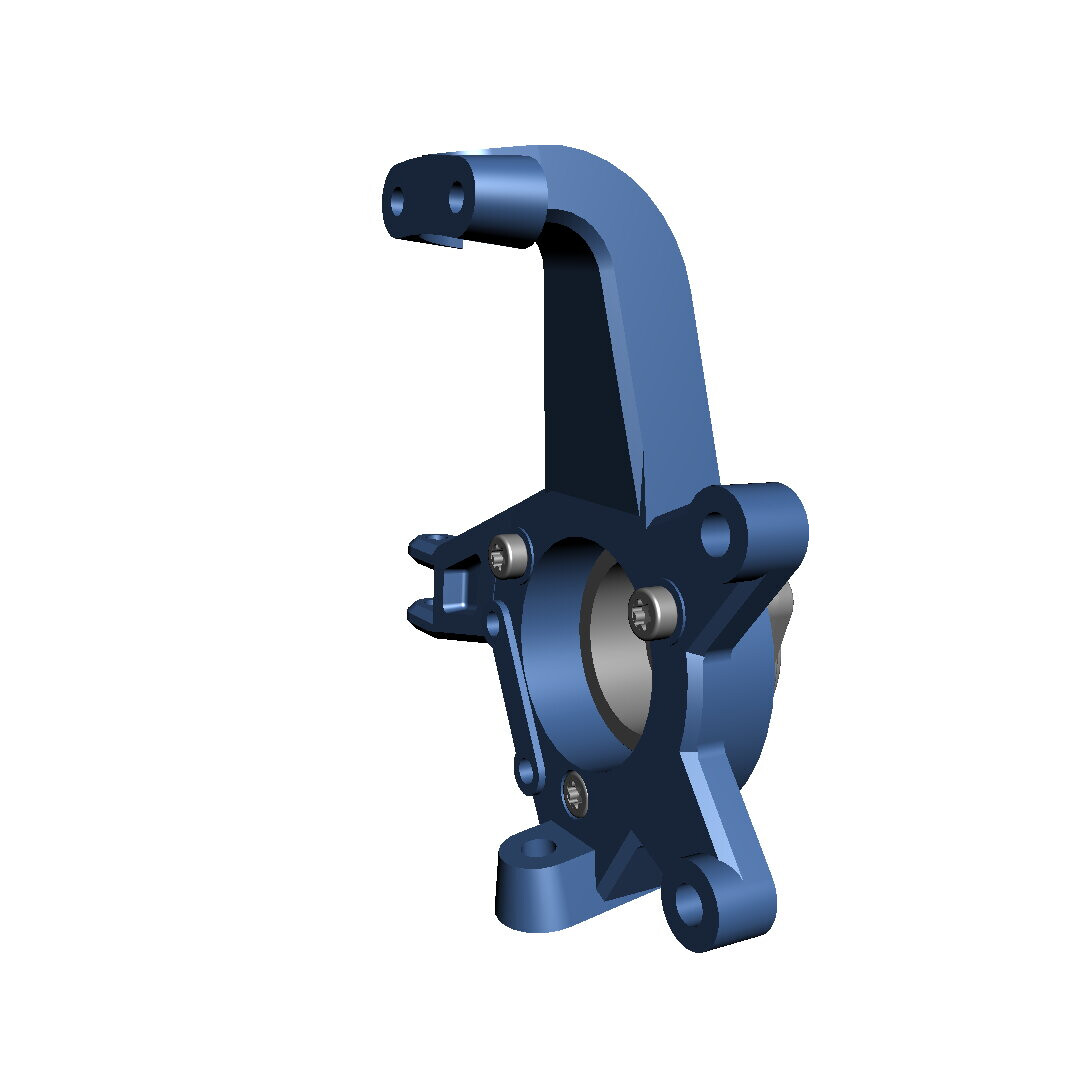
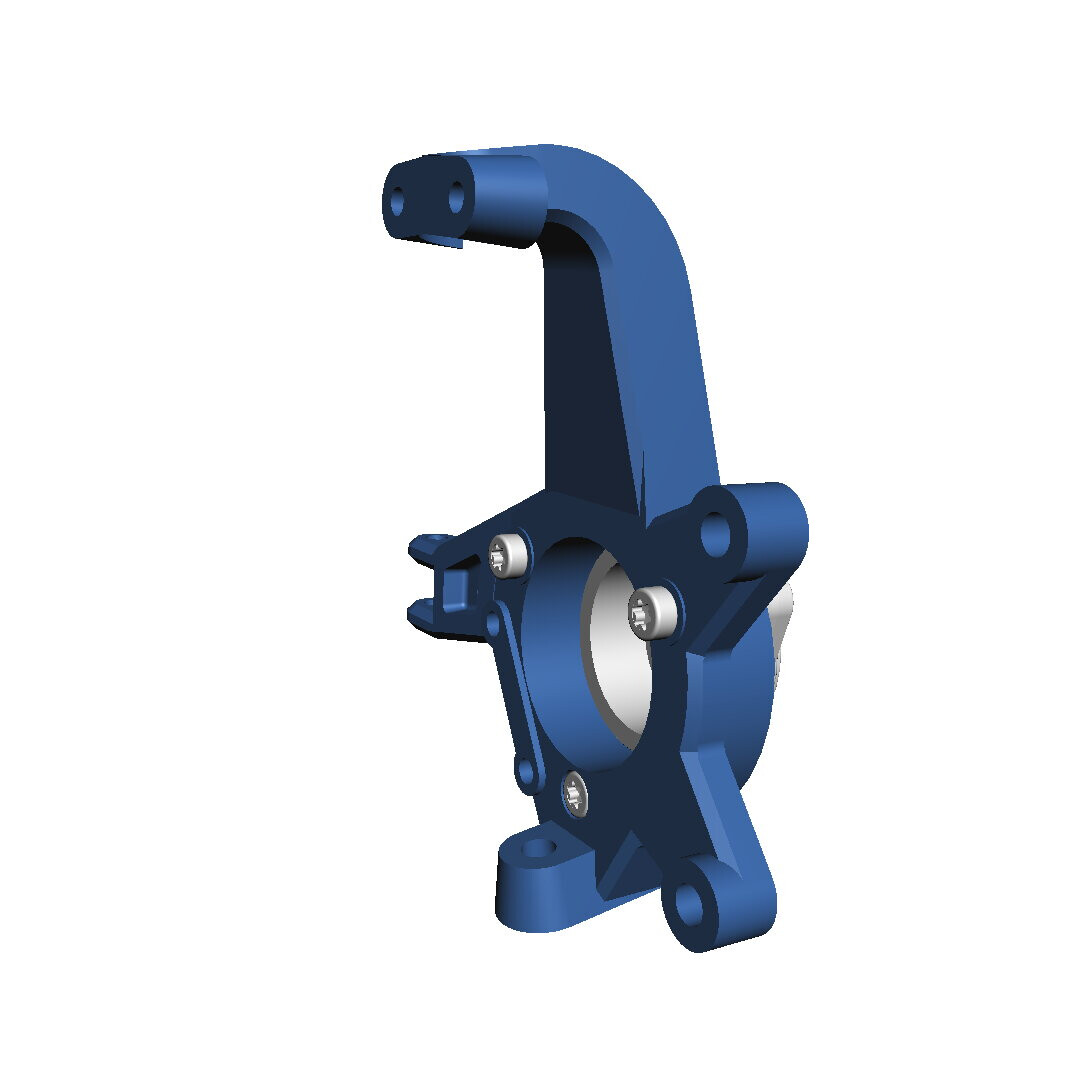
Use new model with better colors

diff --git a/src/lib/work-instructions.tsx b/src/lib/work-instructions.tsx
@@ -97,16 +97,27 @@ const step4Cam: FrameCamera.FrameCamera = {
   },
 };
 
+const ControlArmRlls = "308600";
+const FenderFrame = "312220";
+const FenderRearStreet = "312240";
+const HoweBallJoints = ["312200", "312210"];
+const M10x35Bolts = ["312100", "312110", "312120", "312130", "312140"];
+const M12HeimMhmr12T = "300820";
+const SSSpindle = "312230";
+const ToeLink = "308640";
+const WheelAxle = "308390";
+const WheelMechHousing = "307750";
+const Z06InnerHub = "312080";
+
 const step2SceneItemsVisible = [
-  "100820",
-  "109570",
-  "109690",
-  "109700",
-  "109720",
-  "110850", // Wheel mech housing
-  "111490", // Wheel axle
-  "111700", // Control Arm RLLS
-  "111740",
+  M12HeimMhmr12T,
+  Z06InnerHub,
+  ...HoweBallJoints,
+  SSSpindle,
+  WheelMechHousing,
+  WheelAxle,
+  ControlArmRlls,
+  ToeLink,
 ];
 
 export const InstructionSteps: Record<string, InstructionStep> = {
@@ -132,21 +143,25 @@ export const InstructionSteps: Record<string, InstructionStep> = {
     instructions: (onShow: (ids: string[]) => void) => [
       <>
         Install three (3) M12x1.25 mm torx head bolts in the{" "}
-        <Link onClick={() => onShow(["109570"])}>Z06 inner hub</Link> with
+        <Link onClick={() => onShow([Z06InnerHub])}>Z06 inner hub</Link> with
         Loctite® Threadlocker 271™.
       </>,
       <>Using a T55 socket, torque the bolts to 75 ft/lbs.</>,
     ],
     parts: [
-      { name: "Z06 inner hub", quantity: 1, sceneItemSuppliedIds: ["109570"] },
+      {
+        name: "Z06 inner hub",
+        quantity: 1,
+        sceneItemSuppliedIds: [Z06InnerHub],
+      },
       {
         name: "SS Spindle",
         quantity: 1,
-        sceneItemSuppliedIds: ["109720"],
+        sceneItemSuppliedIds: [SSSpindle],
       },
     ],
-    sceneItemsVisible: ["109570", "109720"],
-    sceneViewStateId: "557f926a-4f46-4de6-a027-08a2bf789162",
+    sceneItemsVisible: [Z06InnerHub, SSSpindle],
+    sceneViewStateId: "f4ec5c6e-ed3a-4806-8d67-240f93378cda",
     step: 1,
     title: "Install the inner hub on the spindle",
   },
@@ -167,34 +182,37 @@ export const InstructionSteps: Record<string, InstructionStep> = {
     instructions: (onShow: (ids: string[]) => void) => [
       <>
         Clean the ID of the{" "}
-        <Link onClick={() => onShow(["109720"])}>spindle</Link> and the OD of
-        the{" "}
-        <Link onClick={() => onShow(["109690", "109700"])}>ball joints</Link>{" "}
-        with brake cleaner and degreaser.
+        <Link onClick={() => onShow([SSSpindle])}>spindle</Link> and the OD of
+        the <Link onClick={() => onShow(HoweBallJoints)}>ball joints</Link> with
+        brake cleaner and degreaser.
       </>,
       <>Wipe clean with a lint free shop towel.</>,
       <>
         Install the washers and castle nuts on the{" "}
-        <Link onClick={() => onShow(["109690", "109700"])}>ball joints</Link>.
+        <Link onClick={() => onShow(HoweBallJoints)}>ball joints</Link>.
       </>,
       <>Torque the castle nuts to 30 ft/lbs and turn it an additional 140°.</>,
       <>
         Ensure the castle nut notch lines up with the hole in the{" "}
-        <Link onClick={() => onShow(["109690", "109700"])}>ball joints</Link>{" "}
-        and install a cotter pin.
+        <Link onClick={() => onShow(HoweBallJoints)}>ball joints</Link> and
+        install a cotter pin.
       </>,
     ],
     parts: [
-      { name: "Z06 inner hub", quantity: 1, sceneItemSuppliedIds: ["109570"] },
+      {
+        name: "Z06 inner hub",
+        quantity: 1,
+        sceneItemSuppliedIds: [Z06InnerHub],
+      },
       {
         name: "Howe ball joint",
         quantity: 2,
-        sceneItemSuppliedIds: ["109690", "109700"],
+        sceneItemSuppliedIds: HoweBallJoints,
       },
-      { name: "SS Spindle", quantity: 1, sceneItemSuppliedIds: ["109720"] },
+      { name: "SS Spindle", quantity: 1, sceneItemSuppliedIds: [SSSpindle] },
     ],
     sceneItemsVisible: step2SceneItemsVisible,
-    sceneViewStateId: "79dca8ec-c839-4764-bfb9-1de1d6629e70",
+    sceneViewStateId: "cc79089a-f354-4074-9296-91bbad0aa696",
     step: 2,
     title: "Install the spindle on the ball joints",
   },
@@ -212,12 +230,12 @@ export const InstructionSteps: Record<string, InstructionStep> = {
       {
         name: "M12 heim MHMR12T",
         quantity: 1,
-        sceneItemSuppliedIds: ["100820"],
+        sceneItemSuppliedIds: [M12HeimMhmr12T],
       },
-      { name: "Toe Link", quantity: 1, sceneItemSuppliedIds: ["111740"] },
+      { name: "Toe Link", quantity: 1, sceneItemSuppliedIds: [ToeLink] },
     ],
     sceneItemsVisible: step2SceneItemsVisible,
-    sceneViewStateId: "09196930-ca37-4ddf-8adf-f695060bb8d4",
+    sceneViewStateId: "62b1fde2-a78b-49aa-82cb-e833c4af9347",
     step: 3,
     title: "Install the stabilizer arm",
   },
@@ -237,14 +255,7 @@ export const InstructionSteps: Record<string, InstructionStep> = {
     camera: step4Cam,
     instructions: (onShow: (ids: string[]) => void) => [
       <>
-        Torque the{" "}
-        <Link
-          onClick={() =>
-            onShow(["109590", "109600", "109610", "109620", "109630"])
-          }
-        >
-          M10x35 bolts
-        </Link>{" "}
+        Torque the <Link onClick={() => onShow(M10x35Bolts)}>M10x35 bolts</Link>{" "}
         to 45 ft/lbs.
       </>,
     ],
@@ -252,45 +263,27 @@ export const InstructionSteps: Record<string, InstructionStep> = {
       {
         name: "M10x35",
         quantity: 5,
-        sceneItemSuppliedIds: [
-          "109590",
-          "109600",
-          "109610",
-          "109620",
-          "109630",
-        ],
+        sceneItemSuppliedIds: M10x35Bolts,
       },
-      { name: "Fender frame", quantity: 1, sceneItemSuppliedIds: ["109710"] },
-      { name: "Fender rear", quantity: 1, sceneItemSuppliedIds: ["109730"] },
+      {
+        name: "Fender frame",
+        quantity: 1,
+        sceneItemSuppliedIds: [FenderFrame],
+      },
+      {
+        name: "Fender rear",
+        quantity: 1,
+        sceneItemSuppliedIds: [FenderRearStreet],
+      },
     ],
     sceneItemsVisible: [
       ...step2SceneItemsVisible,
-      "109590",
-      "109600",
-      "109610",
-      "109620",
-      "109630",
-      "109710",
-      "109730",
+      ...M10x35Bolts,
+      FenderFrame,
+      FenderRearStreet,
     ],
-    sceneViewStateId: "3bebb15b-1245-4dd6-8e3c-e25de4c9e6ab",
+    sceneViewStateId: "ebfd9db7-0e40-4efb-b71e-025311bd3fc1",
     step: 4,
     title: "Install the fender frame",
   },
 };
-
-// Base scene items:
-// 07680144-ffc7-4c67-aa09-d0a9fecf0a3a, tire
-// 2462b043-be9b-48c7-b359-b7b3e5a55370, rim
-
-/*
-Color mods
-
-f4136f80-a6e8-4339-a98a-b18d04c3abe1/109720, { "b": 191, "g": 127, "r": 84 }
-9efb3d22-4377-4dfb-8359-6179829b47fe/109570, { "b": 174, "g": 174, "r": 174 }
-
-c1db36ca-66f0-4918-9a93-c2bf209478be/109690 and a1e22d5a-ed29-4c63-8ed0-449b2cf6a173/109700, { "b": 80, "g": 160, "r": 250 }
-9b497fe1-8032-4513-916c-ed20fad4a0db,111490 and f8751889-235f-455e-aff3-5c50a2095490,100820, { "b": 255, "g": 255, "r": 255 }
-466997ea-8f24-4f4e-86cc-8b52a508dc7b/111700, and 2f9ba315-cf2f-466b-b6b1-f89392540a57/111740 { "b": 100, "g": 100, "r": 100 }
-62a0d676-dc72-4bcc-b57b-23608d7b5215,109590, 73b24246-1648-4f89-af89-5bd39fcf1d1b,109620, f8cab8bd-7755-47c7-b39d-70f82ba8af55,109630, e3c28c65-a92d-4fee-b0de-49f1abe893ed,109610, 441ea531-36c6-4015-bf2e-d1dab388a58c,109600 { "b": 215, "g": 215, "r": 215 }
-*/

diff --git a/src/pages/index.tsx b/src/pages/index.tsx
@@ -52,14 +52,13 @@ export default function Home({
 
   const stepIds = Object.keys(InstructionSteps);
 
-  async function onSceneReady() {
+  async function handleSceneReady() {
     const v = viewer.ref.current;
     if (v == null) return;
 
     const scene = await v.scene();
     if (scene == null) return;
 
-    console.debug("sceneViewId", scene.sceneViewId);
     setReady(true);
     setSceneViewId(scene.sceneViewId);
     if (authoring) await initializeScene({ viewer: v });
@@ -125,15 +124,15 @@ export default function Home({
                 setDialogOpen(true);
               }
             }}
-            onSceneReady={onSceneReady}
+            onSceneReady={handleSceneReady}
             onSelect={async (detail, hit) => {
-              console.debug(
-                `${hit?.itemId?.hex},${hit?.itemSuppliedId?.value},${
-                  hit?.metadata?.partName
-                },${JSON.stringify(hit?.hitNormal)} ${JSON.stringify(
-                  hit?.hitPoint
-                )}`
-              );
+              console.debug({
+                hitNormal: hit?.hitNormal,
+                hitPoint: hit?.hitPoint,
+                partName: hit?.metadata?.partName,
+                sceneItemId: hit?.itemId?.hex,
+                sceneItemSuppliedId: hit?.itemSuppliedId?.value,
+              });
               setSelected({
                 part: {
                   name: hit?.metadata?.partName ?? undefined,

diff --git a/src/lib/config.ts b/src/lib/config.ts
@@ -18,11 +18,11 @@ export const Config: Configuration = {
 // Super Car
 export const Credentials: StreamCredentials = {
[1 lines of base64/hex data omitted]
-  streamKey: "5Fr-GaUXXPLYIRwBZ-K2INGZFghNFJIA4hem",
+  streamKey: "XSk-ui2P2xd68lkPAEYexgGQqxRdJ3xehhvw",
[1 lines of base64/hex data omitted]
   // streamKey: "nac0DHFMNrjK4gYHnoF5Nb2RuJL88bJHb_7w",
 };
-export const SceneId = "ad735843-dbb9-4f9a-80a0-3f1b9949c376";
+export const SceneId = "818afd7f-f46c-4b78-b166-2de868eadddf";
 // export const SceneId = "2372b22a-2b38-4178-a4e3-e884e9f0bad9";
 
 function envVar(name: string, fallback: string): string {
